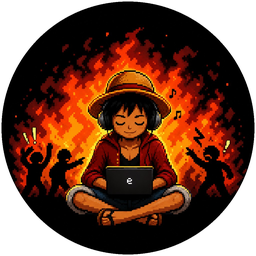
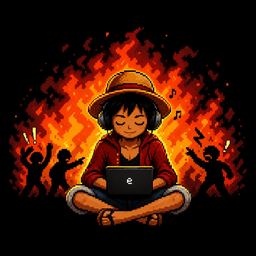
Fix widget edge artifacts with opaque fill and DWM rounding.
Stop transparent corner leaks and use a solid rounded-square floating icon so Windows no longer paints ghost borders.

Changed region(s): [[0.0, 0.0, 1.0, 1.0]]

diff --git a/src/index.css b/src/index.css
@@ -59,8 +59,7 @@ body,
   width: 100%;
   height: 100%;
   overflow: hidden;
-  /* Opaque fill so WebView2 cannot show a second gray/white frame in
-     the corners outside CSS radius. HWND region clips the window shape. */
+  /* Match panel fill. Opaque corners + DWM rounding = no light ghost edges. */
   background: #111113 !important;
   font-family: var(--font-sans);
   color: var(--color-esk-text);
@@ -109,7 +108,7 @@ input {
     linear-gradient(180deg, rgb(255 255 255 / 0.055), transparent 34%),
     radial-gradient(ellipse 80% 50% at 0% 0%, rgb(255 255 255 / 0.04), transparent 50%),
     var(--color-esk-surface);
-  box-shadow: none;
+  box-shadow: inset 0 1px 0 rgb(255 255 255 / 0.08);
 }
 
 .esk-card {
@@ -261,11 +260,11 @@ input {
   box-shadow: inset 0 0 0 1px rgb(255 255 255 / 0.2);
 }
 
-/* —— Orb: physical brand object —— */
+/* —— Orb / tile: physical brand object —— */
 .eskusmi-orb {
   position: relative;
   isolation: isolate;
-  border-radius: 999px;
+  border-radius: 12px;
   border: 1px solid rgb(255 255 255 / 0.14);
   background:
     radial-gradient(circle at 32% 26%, rgb(255 255 255 / 0.14), transparent 42%),
@@ -296,11 +295,13 @@ input {
 .eskusmi-orb--brand {
   padding: 0;
   border: 0;
-  background: transparent;
+  background: #050506;
   box-shadow: none;
   isolation: auto;
   will-change: auto;
+  /* DWM rounds the HWND; keep the tile square so no transparent CSS corners leak. */
   border-radius: 0;
+  overflow: hidden;
 }
 
 .eskusmi-orb--brand::before {
@@ -311,11 +312,10 @@ input {
   display: block;
   width: 100%;
   height: 100%;
-  object-fit: contain;
+  border-radius: 0;
+  object-fit: cover;
   pointer-events: none;
   user-select: none;
-  /* Circular clip lives in the PNG alpha. CSS radius on a square
-     img still paints a rectangular layer on transparent Win32 HWNDs. */
 }
 
 .eskusmi-orb__mark {

diff --git a/src/components/FloatingButton.tsx b/src/components/FloatingButton.tsx
@@ -1,6 +1,7 @@
 import { useRef, type PointerEvent as ReactPointerEvent } from "react";
 import { motion, useReducedMotion } from "motion/react";
 import appIcon from "../assets/app-icon.png";
+import { cn } from "../lib/cn";
 import { SPRING } from "../lib/motion";
 import { startWindowDrag } from "../lib/window";
 import type { PresenceStatus } from "../types/user";
@@ -79,17 +80,22 @@ export function FloatingButton({
       data-attention={attentionHint || undefined}
       onPointerDown={handlePointerDown}
       onClick={handleClick}
-      initial={reduceMotion ? false : { opacity: 0, scale: 0.88 }}
+      initial={false}
       animate={{ opacity: 1, scale: 1 }}
-      whileTap={reduceMotion ? undefined : { scale: 0.94 }}
+      whileTap={reduceMotion ? undefined : { scale: 0.97 }}
       transition={reduceMotion ? { duration: 0 } : SPRING.snappy}
-      className="h-full w-full bg-transparent p-0 outline-none"
+      className={cn(
+        "eskusmi-orb eskusmi-orb--brand",
+        `eskusmi-orb--${status}`,
+        attentionHint && "eskusmi-orb--attention",
+        "h-full w-full p-0 outline-none",
+      )}
     >
       <img
         src={appIcon}
         alt=""
         draggable={false}
-        className="pointer-events-none block h-full w-full select-none object-cover"
+        className="eskusmi-orb__icon"
       />
     </motion.button>
   );

diff --git a/src-tauri/src/lib.rs b/src-tauri/src/lib.rs
@@ -53,10 +53,12 @@ fn harden_window_transparency(window: &tauri::WebviewWindow) {
             unsafe {
                 if let Ok(controller2) = webview.controller().cast::<ICoreWebView2Controller2>() {
                     let _ = controller2.SetDefaultBackgroundColor(COREWEBVIEW2_COLOR {
-                        R: 0,
-                        G: 0,
-                        B: 0,
-                        A: 0,
+                        // Match CSS surface — never leave clear pixels for the compositor
+                        // to fill with light corner triangles.
+                        R: 0x11,
+                        G: 0x11,
+                        B: 0x13,
+                        A: 255,
                     });
                 }
             }
@@ -78,8 +80,9 @@ fn harden_window_transparency(window: &tauri::WebviewWindow) {
                     &margins,
                 );
 
-                // Prevent DWM from rounding the HWND; we round in CSS so corners stay truly transparent.
-                let preference: u32 = 1; // DWMWCP_DONOTROUND
+                // Win11 DWM rounds with anti-aliasing. Prefer that over CSS-radius
+                // on a transparent HWND (ghost light corners) or SetWindowRgn (jagged).
+                let preference: u32 = 2; // DWMWCP_ROUND
                 let _ = windows::Win32::Graphics::Dwm::DwmSetWindowAttribute(
                     hwnd,
                     windows::Win32::Graphics::Dwm::DWMWA_WINDOW_CORNER_PREFERENCE,
@@ -146,10 +149,10 @@ unsafe fn strip_os_chrome(hwnd: windows::Win32::Foundation::HWND) {
             | WS_EX_WINDOWEDGE
             | WS_EX_DLGMODALFRAME
             | WS_EX_CLIENTEDGE
-            | WS_EX_STATICEDGE))
-        | WS_EX_TOOLWINDOW
-        | WS_EX_LAYERED
-        | WINDOW_EX_STYLE(0x0020_0000); // WS_EX_NOREDIRECTIONBITMAP
+            | WS_EX_STATICEDGE
+            | WS_EX_LAYERED
+            | WINDOW_EX_STYLE(0x0020_0000))) // WS_EX_NOREDIRECTIONBITMAP
+        | WS_EX_TOOLWINDOW;
     SetWindowLongPtrW(hwnd, GWL_EXSTYLE, ex.0 as isize);
 
     let _ = SetWindowPos(
@@ -168,29 +171,18 @@ unsafe fn apply_window_shape(
     hwnd: windows::Win32::Foundation::HWND,
     window: &tauri::WebviewWindow,
 ) {
-    use windows::Win32::Graphics::Gdi::{CreateEllipticRgn, CreateRoundRectRgn, SetWindowRgn};
+    use windows::Win32::Graphics::Gdi::SetWindowRgn;
 
     let Ok(size) = window.outer_size() else {
         return;
     };
-    let scale = window.scale_factor().unwrap_or(1.0);
-    let w = size.width as i32;
-    let h = size.height as i32;
-    if w <= 0 || h <= 0 {
+    if size.width == 0 || size.height == 0 {
         return;
     }
 
-    // Collapsed orb is 60×60 logical; treat anything near that as circular.
-    let orb_threshold = (78.0 * scale) as u32;
-    let region = if size.width <= orb_threshold && size.height <= orb_threshold {
-        CreateEllipticRgn(0, 0, w, h)
-    } else {
-        // Match CSS --esk-radius-lg (~18px logical).
-        let corner = ((18.0 * scale).round() as i32).max(8) * 2;
-        CreateRoundRectRgn(0, 0, w + 1, h + 1, corner, corner)
-    };
-
-    let _ = SetWindowRgn(hwnd, Some(region), true);
+    // Keep a rectangular client region. Soft rounding comes from
+    // DWMWA_WINDOW_CORNER_PREFERENCE (DWMWCP_ROUND), not GDI regions.
+    let _ = SetWindowRgn(hwnd, None, true);
 }
 
 #[cfg_attr(mobile, tauri::mobile_entry_point)]
